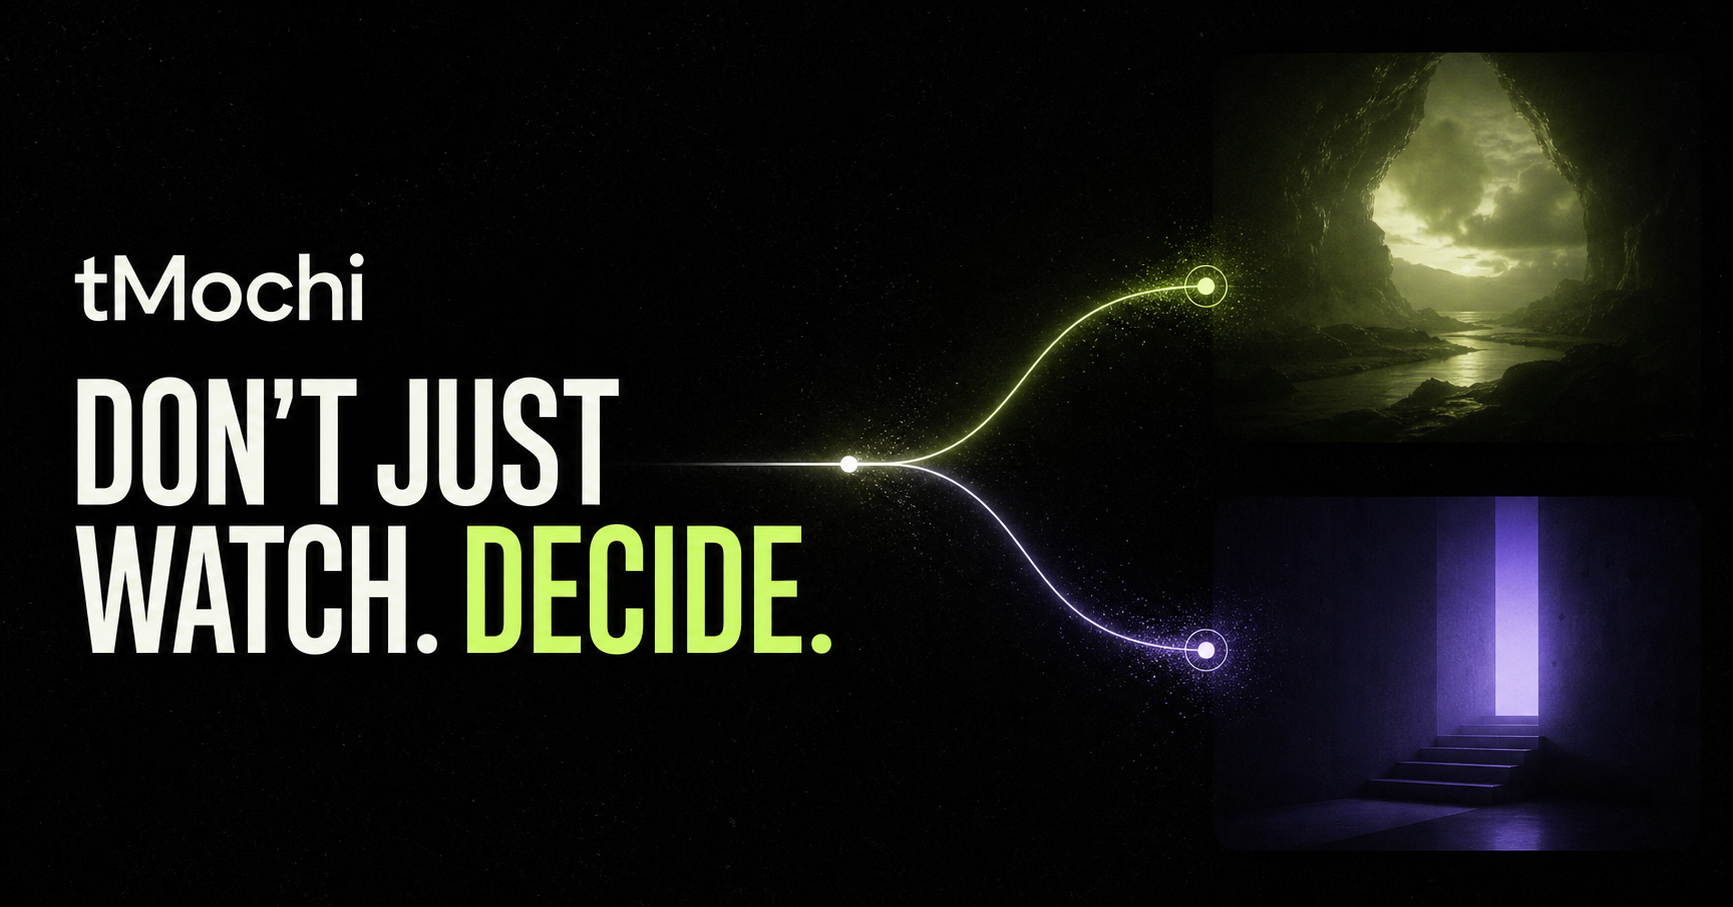
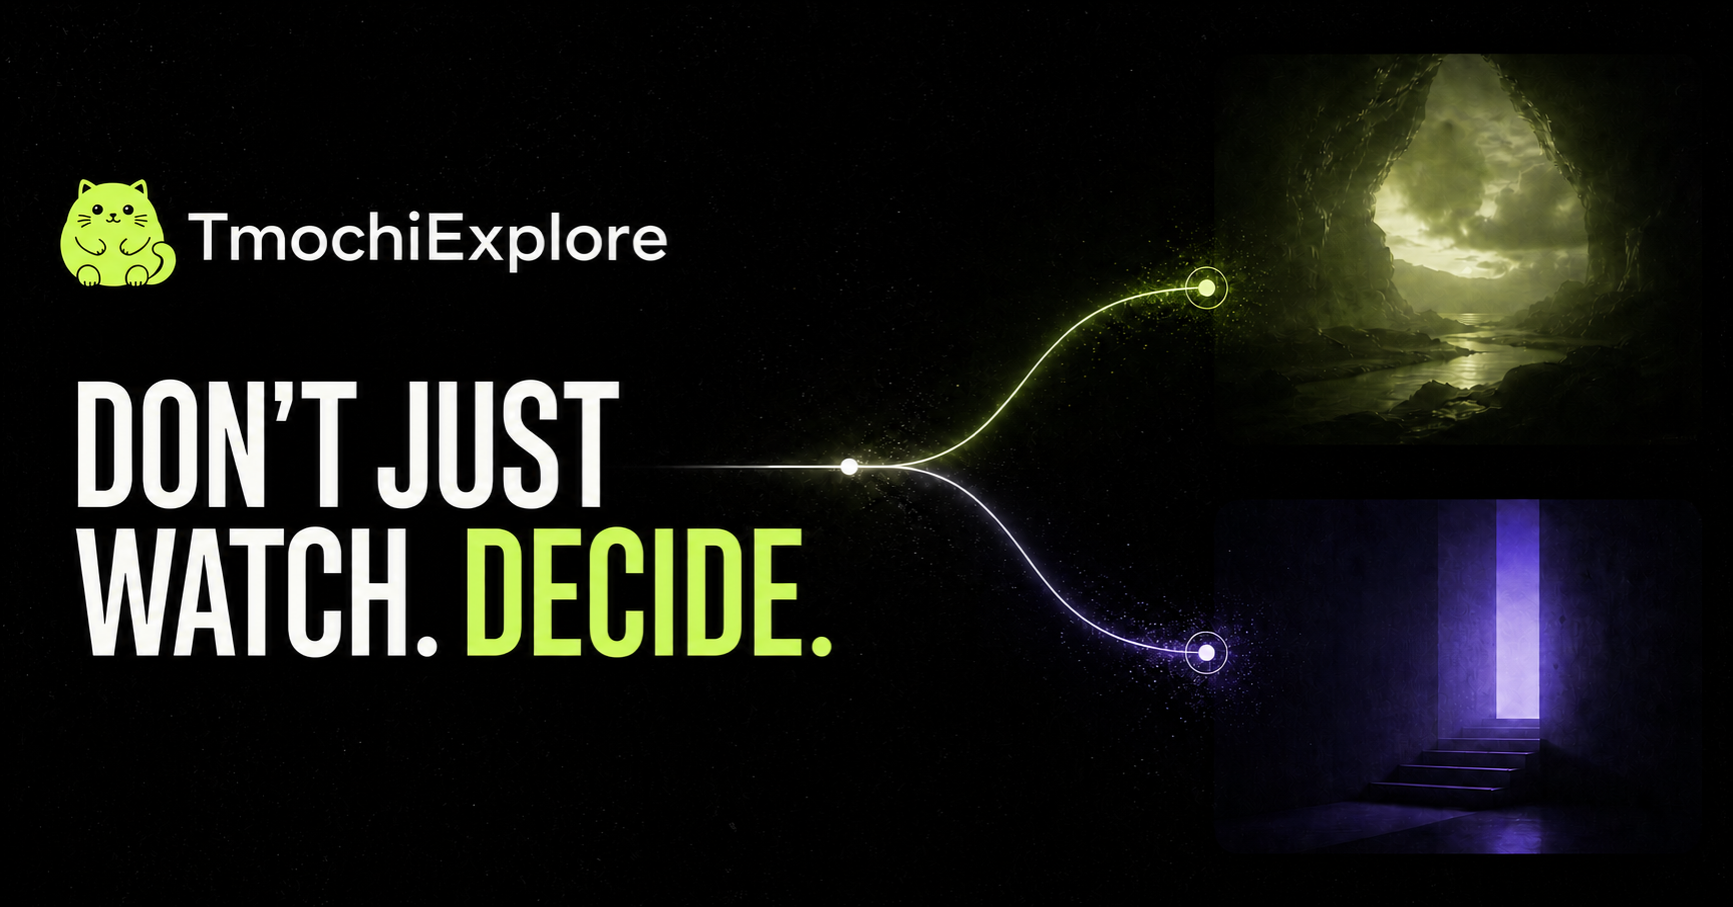
new look changes to UI

diff --git a/app/page.tsx b/app/page.tsx
@@ -29,7 +29,7 @@ import Link from "next/link";
 import { forwardRef, useCallback, useEffect, useImperativeHandle, useMemo, useRef, useState } from "react";
 import type { MouseEvent as ReactMouseEvent } from "react";
 import { flushSync } from "react-dom";
-import { TmochiLogo } from "../components/tmochi-logo";
+import { TmochiExploreLogo } from "../components/tmochi-explore-logo";
 
 type PublicationResponse = {
   items: CatalogPublication[];
@@ -108,7 +108,7 @@ const demoPublication: CatalogPublication = {
   tags: ["sci-fi", "prototype"],
   categories: ["Film & Animation"],
   topics: ["interactive storytelling", "science fiction"],
-  creatorHandle: "tMochi",
+  creatorHandle: "TmochiExplore",
   datePublished: "2026-07-19T00:00:00.000Z",
   mainVideoUrl:
     "https://storage.googleapis.com/gtv-videos-bucket/sample/ForBiggerEscapes.mp4",
@@ -178,16 +178,16 @@ const demoPublication: CatalogPublication = {
   },
 };
 
-const learnDemoPublication: CatalogPublication = {
+const exploreDemoPublication: CatalogPublication = {
   ...demoPublication,
-  id: "tmochi-learn-demo",
+  id: "tmochi-explore-demo",
   title: "Inside a Living Cell",
   description:
     "Choose a route through the cell and discover how its systems keep life in motion.",
   tags: ["biology", "cells", "prototype"],
   categories: ["Education", "Science & Technology"],
   topics: ["cell biology", "life sciences", "human body"],
-  creatorHandle: "tMochi Learn",
+  creatorHandle: "TmochiExplore",
 };
 
 const formatTime = (seconds: number) => {
@@ -262,7 +262,7 @@ function PublicationCard({
   );
 }
 
-function LearnPublicationCard({
+function ExplorePublicationCard({
   publication,
   onPlay,
   featured = false,
@@ -1084,7 +1084,7 @@ export default function Home({
 }: {
   initialPublicationId?: string;
   initialPublication?: InteractivePublication;
-  catalogMode?: "home" | "learn";
+  catalogMode?: "home" | "explore";
 }) {
   const [response, setResponse] = useState<PublicationResponse | null>(null);
   const [loading, setLoading] = useState(true);
@@ -1099,7 +1099,7 @@ export default function Home({
   const [creatingSession, setCreatingSession] = useState(false);
   const playerHandleRef = useRef<InteractivePlayerHandle>(null);
   const routeRequestRef = useRef(0);
-  const isLearn = catalogMode === "learn";
+  const isExplore = catalogMode === "explore";
 
   const clearPlayerRoute = useCallback(() => {
     routeRequestRef.current += 1;
@@ -1113,8 +1113,8 @@ export default function Home({
 
   const returnToLanding = useCallback(() => {
     clearPlayerRoute();
-    window.history.replaceState(null, "", isLearn ? "/learn" : "/");
-  }, [clearPlayerRoute, isLearn]);
+    window.history.replaceState(null, "", isExplore ? "/explore" : "/");
+  }, [clearPlayerRoute, isExplore]);
 
   const loadPublicationRoute = useCallback(async (publicationId: string) => {
     const requestId = ++routeRequestRef.current;
@@ -1151,8 +1151,8 @@ export default function Home({
     if (cursor) setLoadingMore(true);
     else setLoading(true);
     try {
-      const query = new URLSearchParams({ limit: isLearn ? "200" : "24" });
-      if (isLearn) query.set("category", "Education");
+      const query = new URLSearchParams({ limit: isExplore ? "200" : "24" });
+      if (isExplore) query.set("category", "Education");
       if (cursor) query.set("cursor", cursor);
       const request = await fetch(`/api/interactive-publications?${query}`);
       if (!request.ok) throw new Error("Catalog request failed");
@@ -1169,7 +1169,7 @@ export default function Home({
       setLoading(false);
       setLoadingMore(false);
     }
-  }, [isLearn]);
+  }, [isExplore]);
 
   useEffect(() => {
     let active = true;
@@ -1205,14 +1205,14 @@ export default function Home({
   }, [clearPlayerRoute, initialPublication?.id, initialPublicationId, loadPublicationRoute]);
 
   const livePublications = response?.items ?? [];
-  const eligiblePublications = isLearn
+  const eligiblePublications = isExplore
     ? livePublications.filter((publication) =>
         publication.categories?.some((category) => category.trim().toLowerCase() === "education"),
       )
     : livePublications;
   const isPrototype = !loading && !error && eligiblePublications.length === 0;
   const publications = isPrototype
-    ? [isLearn ? learnDemoPublication : demoPublication]
+    ? [isExplore ? exploreDemoPublication : demoPublication]
     : eligiblePublications;
   const topicCounts = (() => {
     const counts = new Map<string, number>();
@@ -1299,14 +1299,14 @@ export default function Home({
   }, [creatingSession]);
 
   return (
-    <main className={isLearn ? "learn-page" : undefined}>
-      <header className={`site-header ${isLearn ? "learn-site-header" : ""}`}>
-        <Link className="brand" href={isLearn ? "/" : "#top"} aria-label="tMochi home">
-          <TmochiLogo />
+    <main className={isExplore ? "learn-page" : undefined}>
+      <header className={`site-header ${isExplore ? "learn-site-header" : ""}`}>
+        <Link className="brand" href={isExplore ? "/" : "#top"} aria-label="TmochiExplore home">
+          <TmochiExploreLogo />
         </Link>
         <nav className="site-nav" aria-label="Main navigation">
-          <Link href="/" aria-current={!isLearn ? "page" : undefined}>Watch</Link>
-          <Link href="/learn" aria-current={isLearn ? "page" : undefined}>Learn</Link>
+          <Link href="/" aria-current={!isExplore ? "page" : undefined}>Watch</Link>
+          <Link href="/explore" aria-current={isExplore ? "page" : undefined}>Explore</Link>
         </nav>
         <button
           className="publish-button"
@@ -1319,16 +1319,16 @@ export default function Home({
         </button>
       </header>
 
-      {isLearn ? (
+      {isExplore ? (
         <>
           <section className="learn-hero" id="top">
             <div>
               <span className="eyebrow"><BookOpen size={13} /> Interactive learning library</span>
-              <h1>Choose what you<br /><em>learn next.</em></h1>
+              <h1>Choose what you<br /><em>explore next.</em></h1>
               <p>Explore lessons that respond to your decisions. Every choice opens a new way to understand the subject.</p>
             </div>
             <div className="learn-hero-mark" aria-hidden="true">
-              <span>LEARN</span>
+              <span>EXPLORE</span>
               <GitFork size={27} />
             </div>
           </section>
@@ -1376,7 +1376,7 @@ export default function Home({
               {isPrototype && !loading && !error && (
                 <div className="prototype-note learn-prototype-note">
                   <span><Sparkles size={15} /></span>
-                  <p><strong>Learn is ready for its first lesson.</strong> This clearly marked preview demonstrates the educational catalog and interactive player.</p>
+                  <p><strong>Explore is ready for its first lesson.</strong> This clearly marked preview demonstrates the educational catalog and interactive player.</p>
                 </div>
               )}
 
@@ -1397,7 +1397,7 @@ export default function Home({
 
               {!loading && !error && featured && !hasSearch && !selectedTopic && (
                 <div className="learn-feature">
-                  <LearnPublicationCard publication={featured} onPlay={openPlayer} featured />
+                  <ExplorePublicationCard publication={featured} onPlay={openPlayer} featured />
                 </div>
               )}
 
@@ -1409,7 +1409,7 @@ export default function Home({
                   </div>
                   <div className="learn-grid">
                     {feedItems.map((publication) => (
-                      <LearnPublicationCard key={publication.id} publication={publication} onPlay={openPlayer} />
+                      <ExplorePublicationCard key={publication.id} publication={publication} onPlay={openPlayer} />
                     ))}
                   </div>
                 </div>
@@ -1471,8 +1471,8 @@ export default function Home({
       )}
 
       <footer>
-        <div className="brand" role="img" aria-label="tMochi"><TmochiLogo /></div>
-        <p>{isLearn ? "Interactive lessons, shaped by every choice." : "Interactive cinema, rendered in real time."}</p>
+        <div className="brand" role="img" aria-label="TmochiExplore"><TmochiExploreLogo /></div>
+        <p>{isExplore ? "Interactive lessons, shaped by every choice." : "Interactive cinema, rendered in real time."}</p>
         <span>Powered by Samsar</span>
       </footer>
 

diff --git a/components/tmochi-explore-logo.tsx b/components/tmochi-explore-logo.tsx
@@ -1,0 +1,18 @@
+import Image from "next/image";
+
+export function TmochiExploreLogo() {
+  return (
+    <span className="brand-name" aria-hidden="true">
+      <Image
+        className="brand-cat-mark"
+        src="/tmochi-explore-logo.png"
+        alt=""
+        width={512}
+        height={512}
+        sizes="31px"
+        priority
+      />
+      <span className="brand-word">TmochiExplore</span>
+    </span>
+  );
+}

diff --git a/app/learn/page.tsx b/app/learn/page.tsx
@@ -1,11 +1,5 @@
-import type { Metadata } from "next";
-import Home from "../page";
+import { permanentRedirect } from "next/navigation";
 
-export const metadata: Metadata = {
-  title: "Learn — tMochi",
-  description: "Explore interactive educational stories and choose your own path through every lesson.",
-};
-
-export default function LearnPage() {
-  return <Home catalogMode="learn" />;
+export default function LegacyLearnPage() {
+  permanentRedirect("/explore");
 }

diff --git a/app/explore/page.tsx b/app/explore/page.tsx
@@ -1,0 +1,11 @@
+import type { Metadata } from "next";
+import Home from "../page";
+
+export const metadata: Metadata = {
+  title: "Explore — TmochiExplore",
+  description: "Explore interactive educational stories and choose your own path through every lesson.",
+};
+
+export default function ExplorePage() {
+  return <Home catalogMode="explore" />;
+}

diff --git a/app/layout.tsx b/app/layout.tsx
@@ -11,7 +11,7 @@ export async function generateMetadata(): Promise<Metadata> {
   const host = incoming.get("x-forwarded-host") || incoming.get("host") || "localhost:3001";
   const protocol = incoming.get("x-forwarded-proto") || (host.startsWith("localhost") ? "http" : "https");
   const origin = `${protocol}://${host}`;
-  const title = "tMochi — Interactive Cinema";
+  const title = "TmochiExplore — Interactive Cinema";
   const description = "Watch stories that change with every choice. A futuristic interactive film experience powered by Samsar.";
 
   return {
@@ -19,16 +19,16 @@ export async function generateMetadata(): Promise<Metadata> {
     title,
     description,
     icons: {
-      icon: [{ url: "/favicon.svg?v=5", type: "image/svg+xml" }],
-      shortcut: "/favicon.svg?v=5",
+      icon: [{ url: "/favicon.svg?v=6", type: "image/svg+xml" }],
+      shortcut: "/favicon.svg?v=6",
     },
     openGraph: {
       title,
       description,
       type: "website",
       url: origin,
-      siteName: "tMochi",
-      images: [{ url: `${origin}/og.png`, width: 1733, height: 907, alt: "tMochi — Don’t just watch. Decide." }],
+      siteName: "TmochiExplore",
+      images: [{ url: `${origin}/og.png`, width: 1733, height: 907, alt: "TmochiExplore — Don’t just watch. Decide." }],
     },
     twitter: {
       card: "summary_large_image",

diff --git a/app/creator/creator-studio.tsx b/app/creator/creator-studio.tsx
@@ -899,7 +899,7 @@ export default function CreatorStudio({
           zip,
           "README.txt",
           strToU8(
-            "tMochi interactive video artifacts\n\n" +
+            "TmochiExplore interactive video artifacts\n\n" +
             "Start with manifest/branching.json. All switch times and durations use media-relative seconds.\n" +
             "manifest/artifact-index.json maps every remote resource to its packaged media file.\n",
           ),
@@ -916,7 +916,7 @@ export default function CreatorStudio({
       const href = URL.createObjectURL(blob);
       const anchor = document.createElement("a");
       anchor.href = href;
-      anchor.download = `tmochi-${sanitizeFileName(requestId)}-artifacts.zip`;
+      anchor.download = `tmochi-explore-${sanitizeFileName(requestId)}-artifacts.zip`;
       document.body.appendChild(anchor);
       anchor.click();
       anchor.remove();
@@ -938,7 +938,7 @@ export default function CreatorStudio({
     <main className={styles.studioShell}>
       <header className={styles.studioHeader}>
         <div className={styles.headerIdentity}>
-          <Link className={styles.headerBrand} href="/" aria-label="tMochi home"><CreatorBrand /></Link>
+          <Link className={styles.headerBrand} href="/" aria-label="TmochiExplore home"><CreatorBrand /></Link>
           <span className={styles.headerDivider} />
           <div>
             <strong>Creator Studio</strong>
@@ -976,7 +976,7 @@ export default function CreatorStudio({
           <div className={styles.panelHeading}>
             <span className={styles.eyebrow}>Build a new transmission</span>
             <h1>Direct every <em>possible path.</em></h1>
-            <p>Describe one premise. tMochi builds its story tree, renders every branch, and keeps the timing connected.</p>
+            <p>Describe one premise. TmochiExplore builds its story tree, renders every branch, and keeps the timing connected.</p>
           </div>
 
           <form className={styles.creatorForm} onSubmit={generate}>

diff --git a/app/creator/creator-login.tsx b/app/creator/creator-login.tsx
@@ -145,7 +145,7 @@ export default function CreatorLogin({ redirectPath = "/creator" }: { redirectPa
     <main className={styles.loginShell}>
       <div className={styles.loginGlow} aria-hidden="true" />
       <Link className={styles.loginBack} href="/">
-        <ArrowLeft size={15} /> Back to tMochi
+        <ArrowLeft size={15} /> Back to TmochiExplore
       </Link>
 
       <section className={styles.loginPanel}>
@@ -162,8 +162,8 @@ export default function CreatorLogin({ redirectPath = "/creator" }: { redirectPa
         </h1>
         <p className={styles.loginIntro}>
           {view === "login"
-            ? "Use the same Samsar account you use on samsar.one. Your shared secure session will also work here on tMochi."
-            : "Create credentials compatible with Samsar, the Gallery, and tMochi Creator Studio."}
+            ? "Use the same Samsar account you use on samsar.one. Your shared secure session will also work here on TmochiExplore."
+            : "Create credentials compatible with Samsar, the Gallery, and TmochiExplore Creator Studio."}
         </p>
 
         <div className={styles.authTabs} role="tablist" aria-label="Authentication mode">

diff --git a/components/tmochi-learn-logo.tsx b/components/tmochi-learn-logo.tsx
@@ -1,0 +1,5 @@
+import { TmochiExploreLogo } from "./tmochi-explore-logo";
+
+export function TmochiLearnLogo() {
+  return <TmochiExploreLogo />;
+}

diff --git a/app/creator/[sessionId]/page.tsx b/app/creator/[sessionId]/page.tsx
@@ -6,8 +6,8 @@ import CreatorStudio from "../creator-studio";
 export const dynamic = "force-dynamic";
 
 export const metadata: Metadata = {
-  title: "Creator Session — tMochi",
-  description: "Resume and preview a tMochi interactive film generation.",
+  title: "Creator Session — TmochiExplore",
+  description: "Resume and preview a TmochiExplore interactive film generation.",
 };
 
 export default async function CreatorSessionPage({

diff --git a/app/creator/creator-brand.tsx b/app/creator/creator-brand.tsx
@@ -1,5 +1,5 @@
-import { TmochiLogo } from "../../components/tmochi-logo";
+import { TmochiExploreLogo } from "../../components/tmochi-explore-logo";
 
 export function CreatorBrand() {
-  return <TmochiLogo />;
+  return <TmochiExploreLogo />;
 }

diff --git a/app/creator/page.tsx b/app/creator/page.tsx
@@ -6,8 +6,8 @@ import CreatorStudio from "./creator-studio";
 export const dynamic = "force-dynamic";
 
 export const metadata: Metadata = {
-  title: "Creator Studio — tMochi",
-  description: "Create, preview, download, and publish branching interactive films with tMochi.",
+  title: "Creator Studio — TmochiExplore",
+  description: "Create, preview, download, and publish branching interactive films with TmochiExplore.",
 };
 
 export default async function CreatorPage() {

diff --git a/app/creator/publish-dialog.tsx b/app/creator/publish-dialog.tsx
@@ -187,7 +187,7 @@ export default function PublishDialog({
             <span><Check size={24} /></span>
             <p className={styles.eyebrow}>Transmission live</p>
             <h2 id="publish-title">Your interactive film is published.</h2>
-            <p>It now appears in the public tMochi feed and has its own shareable player.</p>
+            <p>It now appears in the public TmochiExplore feed and has its own shareable player.</p>
             <a className={styles.primaryButton} href={`/watch/${encodeURIComponent(publicationId)}`}>
               Watch published film <ArrowRight size={16} />
             </a>
@@ -196,7 +196,7 @@ export default function PublishDialog({
           <form onSubmit={publish}>
             <div className={styles.dialogHeading}>
               <div>
-                <span className={styles.eyebrow}>Publish to tMochi</span>
+                <span className={styles.eyebrow}>Publish to TmochiExplore</span>
                 <h2 id="publish-title">Name this transmission.</h2>
                 <p className={styles.dialogIntro}>Add the public details viewers will see in the feed.</p>
               </div>